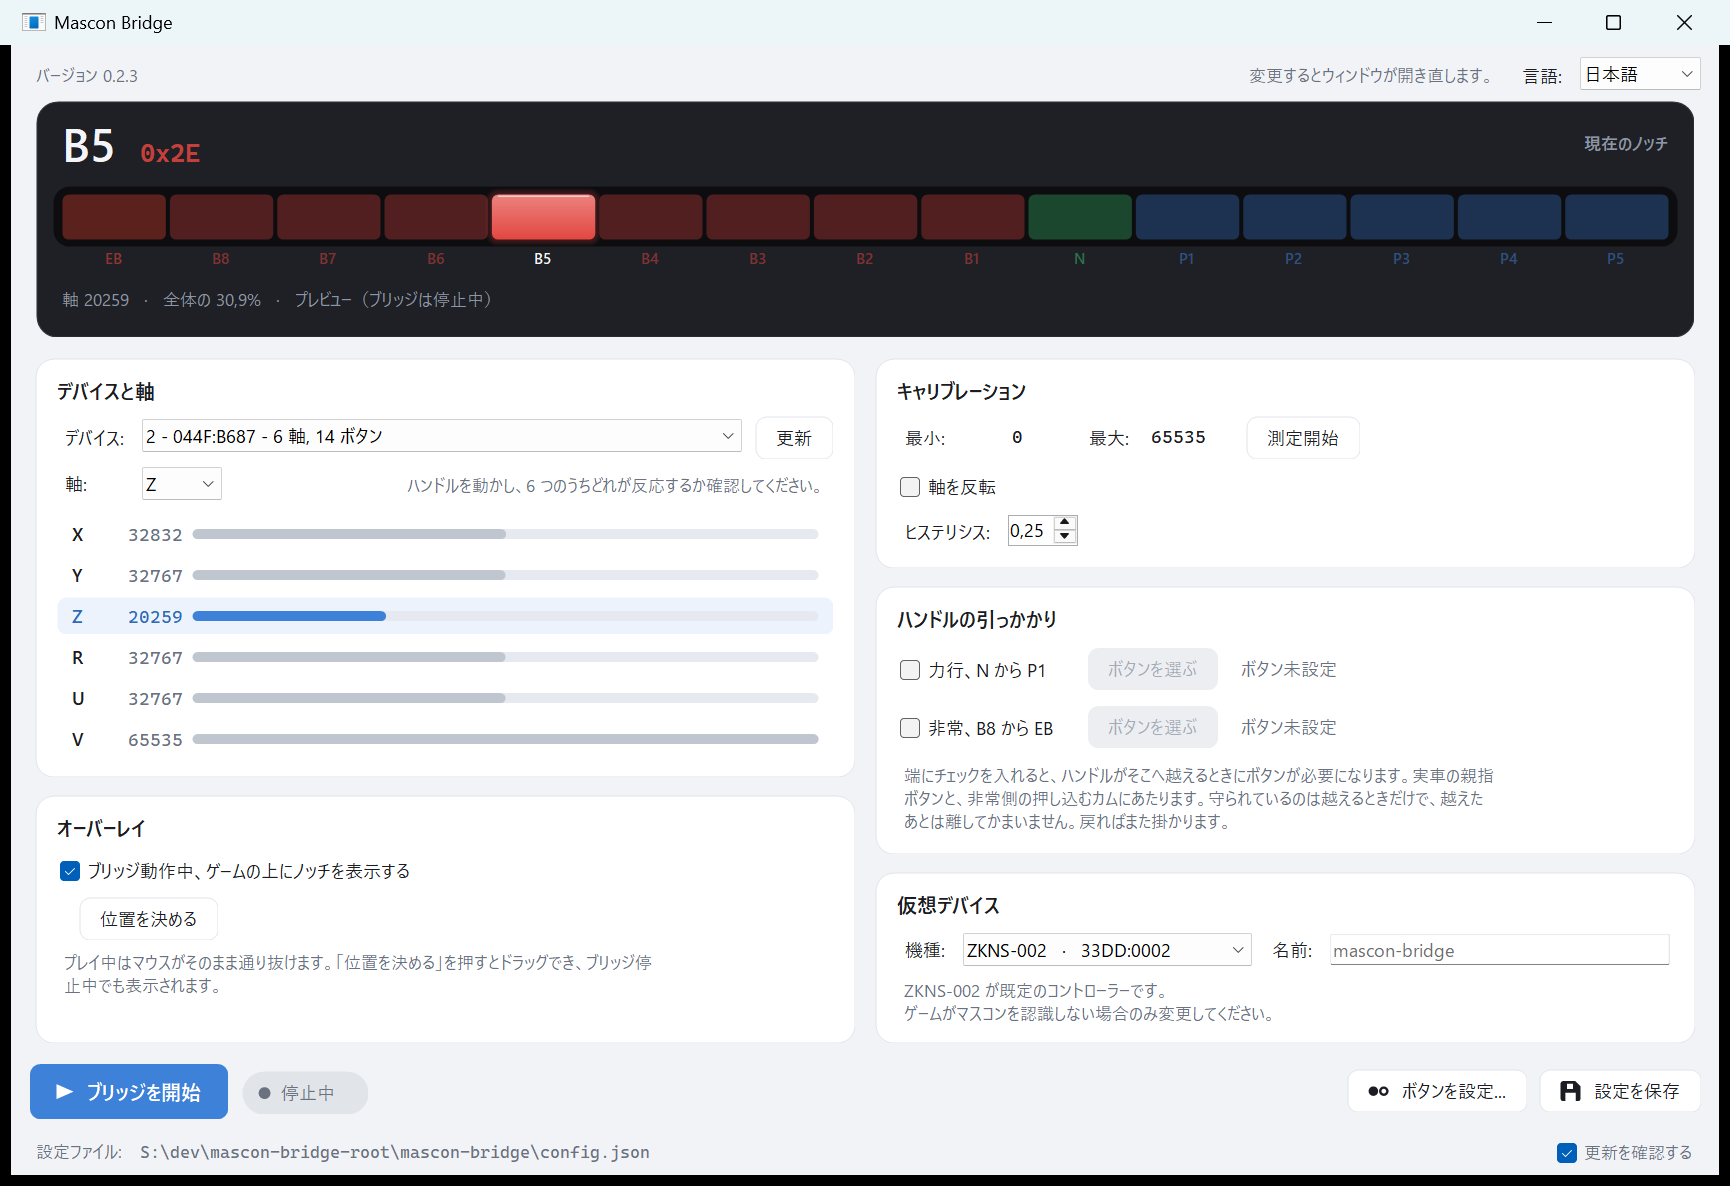
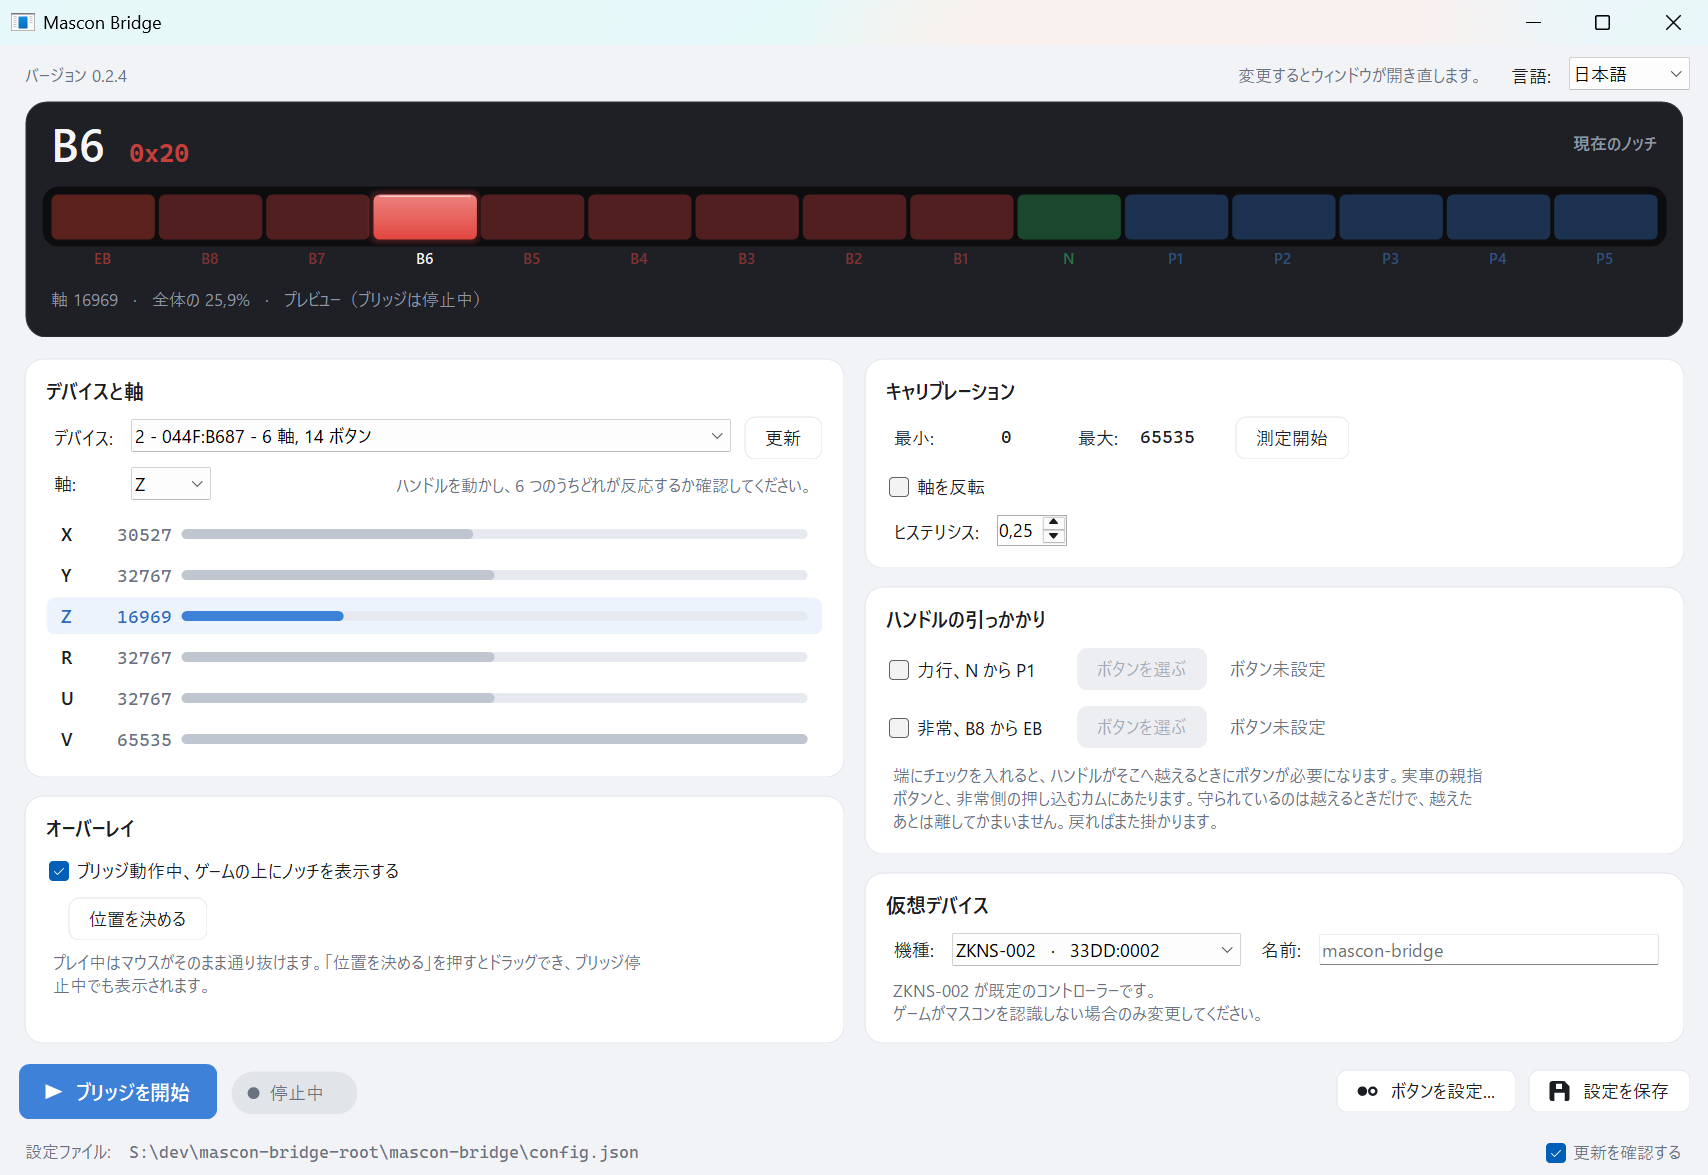
Write the changelog for v0.2.4, and stamp the version (#32)
Release notes in Japanese with the English translation in a details block,
as before, and Version to 0.2.4.

What the tag will carry, from v0.2.3..master:

- #28 - the bindings page can show what each button does in the game, and
  says in red that the manual tells you not to use ZL.
- #30 - the hat row can be taught by pushing the hat, which until now did
  nothing at all.
- #31 - assigning a button while the bridge runs no longer records the
  bridge's own mascon.

The notes lead with the game names, because that is the one anybody will
notice, and keep the real-mascon caveat of #31 in its own section: the
exclusion is by vendor and product id, so somebody who owns the real thing
has to stop the bridge to bind it.

Screenshots retaken, since they carry the version in their corner, and the
bindings page joins them in both languages - it is where this release's
changes are, and the READMEs describe it without ever showing it.

They are taken with PrintWindow rather than DrawToBitmap now. DrawToBitmap
sends WM_PRINTCLIENT, which a TextBox does not answer with its placeholder
text, so the Name box came out blank instead of showing the default name,
and the frame was drawn as though the window were inactive.

diff --git a/release-notes/v0.2.4.md b/release-notes/v0.2.4.md
@@ -1,0 +1,64 @@
+- **ボタン割り当て画面に「ゲーム」の選択欄を追加しました。** **JR EAST Train Simulator**
+  を選ぶと、各ボタンの行にそのゲームでの機能名が並びます。ATS 確認、警笛、デッドマン装置
+  リセットなど、マニュアルにある名前です。既定は **なし** で、そのときの表示はこれまでと
+  まったく同じです。
+- **`ZL` は「使用しないこと」と赤で表示します。** ゲームのマニュアルに赤字でそう明記されて
+  いるボタンですが、これまでの画面は他と同じように割り当てられ、注意書きも出ませんでした。
+  マニュアルに記載のない `Home` もその旨を表示します。ハットの行には四方向ぶん
+  （逆転器・連絡ブザー・勾配起動）をまとめて出すので、あの行が四方向を担っていることが
+  伝わります。表示されるのはゲームの**既定値**で、Steam のコントローラー設定で変更できます。
+- **ハットは、倒すだけで割り当てられるようになりました。** これまではハットの行だけ、
+  ハットではなく「その機器のどれかのボタン」を押す必要があり、倒しても何も起こりません
+  でした。いちばん自然な操作が無反応だったわけです。今はどちらでも割り当てられます。
+- **ブリッジ動作中に、割り当てが仮想マスコン自身を拾わなくなりました。** 仮想マスコンも
+  Windows から見ればジョイスティックの 1 つで、しかも先頭に並びます。そのため割り当て済みの
+  ボタンを押すと、手元の機器ではなく仮想マスコンが記録され、何も起きないか、ブリッジが自分の
+  出力を読む割り当てができていました。動作中はその機器を候補から外します。
+
+## 知っておくと良いこと
+
+- 外すのはベンダー ID とプロダクト ID の一致で、**停止中は外しません**。本物の ZUIKI
+  マスコンをお持ちの場合、ブリッジを止めていればこれまでどおり割り当てられます。動作中は
+  ID が同一で区別できないため、本物も一緒に隠れます。
+- `config.json` に `"Game"` が増えます（既定は `"none"`）。表示だけの設定で、ブリッジが
+  送る内容は変わりません。
+
+ノッチ値・HID レポート・軸の読み取りには手を入れていないので、運転の操作感は v0.2.3 と
+同じです。
+
+<details>
+<summary>English</summary>
+
+- **The button assignment page has a Game list.** Pick **JR EAST Train Simulator** and
+  every row takes the name that button carries in the game — ATS confirmation, horn,
+  deadman switch reset, and the rest, worded as the manual words them. It is set to
+  **None** by default, and with None the page is exactly what it was.
+- **`ZL` is shown in red as "do not use".** The game's manual prints it in red and says
+  not to use it, and until now the page offered it like any other button, with no
+  warning at all. `Home`, which the manual does not cover, says so rather than sitting
+  blank. The hat row names all four of its directions — reverser, communication buzzer,
+  hill start — so it is clear that one row carries four things. The names are the
+  game's **defaults**; Steam's controller settings can move them.
+- **The hat can be assigned by pushing the hat.** Only the hat row worked this way: it
+  learns a whole device rather than one button, so it wanted you to press any button on
+  the device instead, and pushing the hat did nothing at all. The most natural gesture
+  was the one that did not work. Either way works now.
+- **Assigning a button while the bridge runs no longer picks up the virtual mascon.**
+  That mascon is one of the joysticks Windows exposes, and it is enumerated first, so
+  pressing a button that was already mapped recorded the bridge instead of your
+  hardware — a binding that either did nothing or fed the bridge its own output. It is
+  now left out of the scan while the bridge runs.
+
+## Worth knowing
+
+- The exclusion matches on the vendor and product ids, and it **only applies while the
+  bridge runs**. If you own a real ZUIKI mascon you can still bind it with the bridge
+  stopped; while it runs the ids are identical and the two cannot be told apart, so the
+  real one is hidden too.
+- `config.json` gains a `"Game"` key, `"none"` by default. It is a display setting and
+  changes nothing the bridge sends.
+
+The notch values, the HID report and the axis reading are untouched, so it drives
+exactly as v0.2.3 did.
+
+</details>

diff --git a/README.md b/README.md
@@ -146,6 +146,10 @@ Steam のゲームのプロパティでは、**Steam Input を有効のままに
 している `ZL` も含みます。表示されるのはゲームの既定値で、Steam のコントローラー設定で
 変更できます。**なし** を選べば、元のボタン名だけの表示に戻ります。
 
+<p align="center">
+  <img src="assets/screenshot-bindings-ja.png" alt="ボタン割り当ての画面" width="520">
+</p>
+
 ### 言語
 
 本ソフトは**既定で日本語**です。ウィンドウ上部の選択欄から English に切り替えられます。
